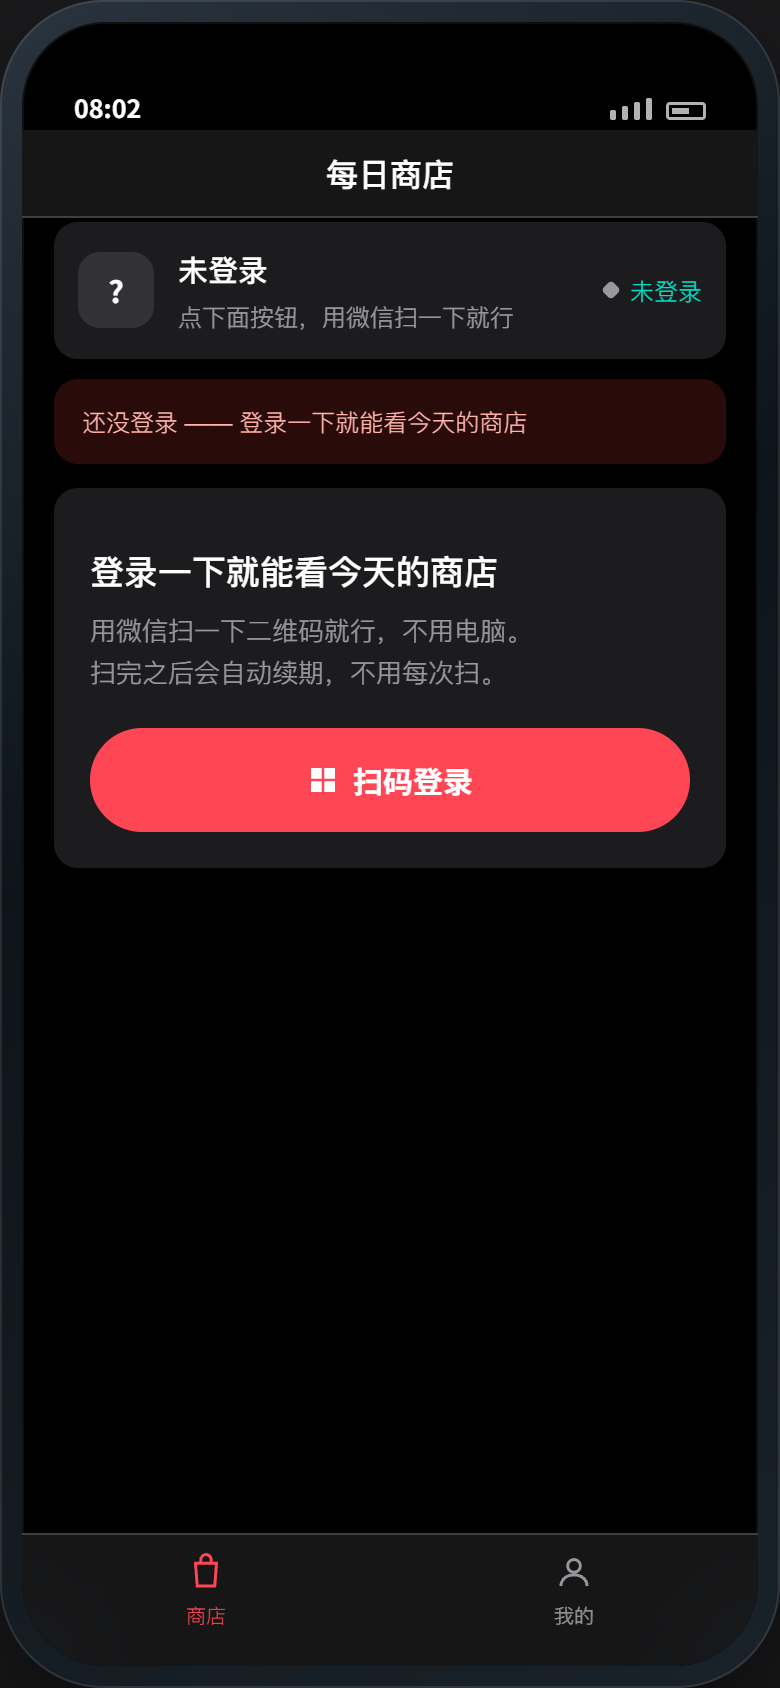
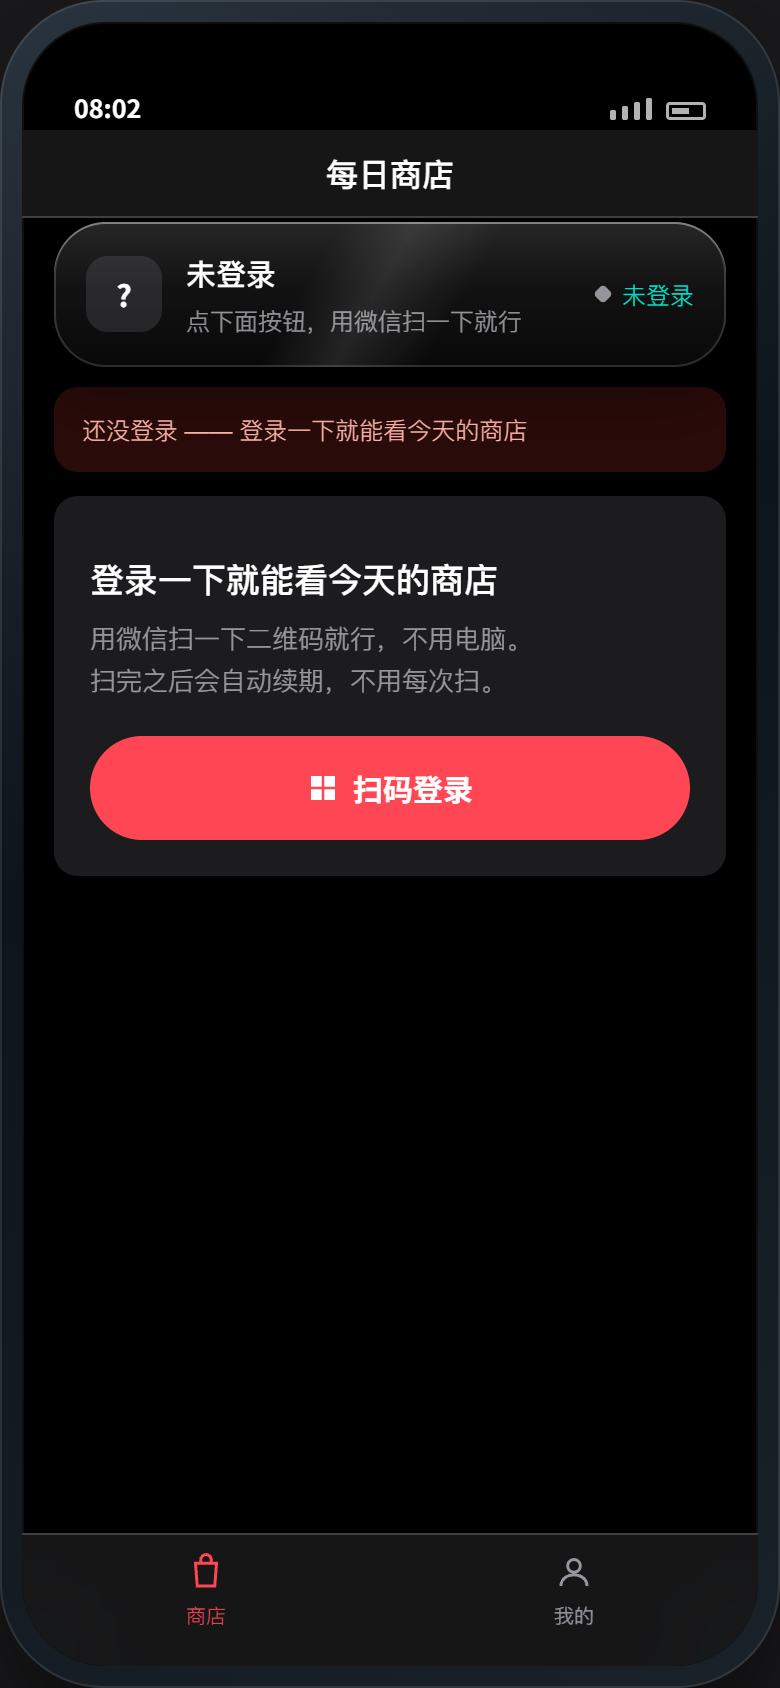
商店页排版：标题行改成「下次刷新时间 · 短引信条 · 倒计时」，身份条换液态玻璃
- 标题行：`Daily Store` → `下次刷新时间`（中文不再走压缩字腔）；原来整行一条的引信条
  缩短成 `ZW.fuseWidth = 72pt`，塞进这一行的标签和倒计时中间；
  右边留「翻开全部」。
- 卡阵下移：原来引信条那一行占的高度，改成标题行的下边距（30pt），四张卡整体往下。
- 身份条：改用系统原生液态玻璃 —— `zwGlassCard()` = `glassEffect(.regular.interactive())`，
  圆角 `ZW.radiusGlass = 26pt`（比内容卡大）。这是内容层唯一的玻璃例外：
  它长得像控件、也确实可点（多角色时切换）。`glassEffect` 全项目仍然只有这一处。
- 预览台同步：标题行三段式、时间条 72px、卡阵下移 30px；身份条用半透明材质 +
  backdrop-filter + 内高光 + 镜面渐变近似玻璃（真机走系统 API）。
- 文档：README 两处「玻璃只作控件层」补上身份条这个例外；引信条的无障碍标签跟着改。
- design/shots 重出。

diff --git a/val-shop-ios/design/preview.html b/val-shop-ios/design/preview.html
@@ -51,6 +51,7 @@
   --r-group:12px;
   --r-card:20px;
   --r-control:11px;
+  --r-glass:26px;
   --pad:16px;
   /* 卡阵间距：翻牌时光会从卡边往外渗 10pt 左右（见 .card .aura），
      间距得留够，不然光会糊到隔壁卡上。App 侧同值：ZW.cardGap */
@@ -148,7 +149,23 @@ body{
    ① 身份条（内容卡）
    ========================================================================== */
 .idbar{
-  display:flex;align-items:center;gap:12px;padding:12px;margin-top:2px;
+  display:flex;align-items:center;gap:12px;padding:14px 16px;margin-top:2px;
+  /* 液态玻璃（App 侧是系统原生 glassEffect；这里手写一个近似）：
+     半透明材质 + 背景模糊/加饱和 + 内高光 + 顶部镜面渐变 */
+  position:relative;
+  border-radius:var(--r-glass);
+  background:linear-gradient(180deg,
+      rgba(255,255,255,.15), rgba(255,255,255,.07) 46%, rgba(255,255,255,.035));
+  backdrop-filter:blur(24px) saturate(1.8);
+  -webkit-backdrop-filter:blur(24px) saturate(1.8);
+  box-shadow:inset 0 0 0 1px rgba(255,255,255,.16),
+             inset 0 1px 0 rgba(255,255,255,.30),
+             inset 0 -1px 0 rgba(0,0,0,.45),
+             0 12px 28px rgba(0,0,0,.42);
+}
+.idbar::after{
+  content:"";position:absolute;inset:0;border-radius:inherit;pointer-events:none;
+  background:linear-gradient(120deg,transparent 38%,rgba(255,255,255,.10) 48%,transparent 60%);
 }
 .idbar .av{
   width:38px;height:38px;flex:0 0 38px;display:grid;place-items:center;border-radius:var(--r-control);
@@ -170,20 +187,21 @@ body{
    ② 今日四张（分组内容：小标 + 引信条 + 卡阵 + 统计）
    ========================================================================== */
 .board{margin-top:8px}
-.board .head{display:flex;align-items:center;gap:10px;padding:0 2px 6px}
-.board .head .t{font-size:11px;color:var(--label-2)}
+.board .head{display:flex;align-items:center;gap:8px;padding:0 2px 30px}
+.board .head .t{font-size:12px;color:var(--label-2);white-space:nowrap}
 .board .head .c{font-size:12px;color:var(--label-2)}
 .board .head .row{display:flex;align-items:center;gap:10px;margin-left:auto}
 
 /* 控件层的次级按钮：系统 .glass 样式 */
 .board .head .act{
+  margin-left:auto;
   font-size:12px;color:var(--label);cursor:pointer;padding:6px 12px;border-radius:999px;
   background:rgba(120,120,128,.28);border:1px solid rgba(255,255,255,.10);
 }
 .board .head .act:disabled{opacity:.45}
 
 /* 引信条 */
-.fuse{position:relative;height:2px;margin:0 2px 8px;border-radius:2px;background:var(--fill)}
+.fuse{position:relative;flex:0 0 72px;height:2px;border-radius:2px;background:var(--fill)}
 .fuse .fill{position:absolute;inset:0 auto 0 0;border-radius:2px;background:var(--rouge);transition:width .6s linear}
 
 .slots{display:grid;grid-template-columns:1fr 1fr;gap:var(--gap);perspective:1100px}
@@ -543,7 +561,7 @@ footer.pagefoot{margin-top:56px;color:var(--label-3);font-size:11.5px;border-top
           <div class="navbar"><div class="ntitle">每日商店</div></div>
           <div class="scroll">
 
-            <div class="idbar g-lg g-fill">
+            <div class="idbar">
               <div class="av g-sm">天</div>
               <div class="who">
                 <div class="gid">天天开心#26170<span class="swap">⇅</span></div>
@@ -554,15 +572,13 @@ footer.pagefoot{margin-top:56px;color:var(--label-3);font-size:11.5px;border-top
 
             <div class="board">
               <div class="head">
-                <div class="t machine">Daily Store</div>
-                <div class="row">
-                  <div class="c mono live" id="clk">16:47:13</div>
-                  <button class="act machine g-sm" id="flipall">翻开全部</button>
+                <div class="t">下次刷新时间</div>
+                <div class="fuse">
+                  <div class="fill" id="fuse" style="width:30%"></div>
+                  <div class="head-mark" id="fusehead" style="left:30%"></div>
                 </div>
-              </div>
-              <div class="fuse">
-                <div class="fill" id="fuse" style="width:30%"></div>
-                <div class="head-mark" id="fusehead" style="left:30%"></div>
+                <div class="c mono live" id="clk">16:47:13</div>
+                <button class="act machine g-sm" id="flipall">翻开全部</button>
               </div>
               <div class="slots" id="slots">
                 <!-- 四个卡背（JS 生成） -->
@@ -589,7 +605,7 @@ footer.pagefoot{margin-top:56px;color:var(--label-3);font-size:11.5px;border-top
           <div class="navbar"><div class="ntitle">每日商店</div></div>
           <div class="scroll">
 
-            <div class="idbar g-lg g-fill">
+            <div class="idbar">
               <div class="av g-sm">天</div>
               <div class="who">
                 <div class="gid">天天开心#26170<span class="swap">⇅</span></div>
@@ -600,13 +616,11 @@ footer.pagefoot{margin-top:56px;color:var(--label-3);font-size:11.5px;border-top
 
             <div class="board">
               <div class="head">
-                <div class="t machine">Daily Store</div>
-                <div class="row">
-                  <div class="c mono live">15:41:22</div>
-                  <button class="act machine g-sm">翻开全部</button>
-                </div>
+                <div class="t">下次刷新时间</div>
+                <div class="fuse"><div class="fill" style="width:35%"></div><div class="head-mark" style="left:35%"></div></div>
+                <div class="c mono live">15:41:22</div>
+                <button class="act machine g-sm">翻开全部</button>
               </div>
-              <div class="fuse"><div class="fill" style="width:35%"></div><div class="head-mark" style="left:35%"></div></div>
               <div class="slots" id="slots2"></div>
             </div>
 
@@ -630,7 +644,7 @@ footer.pagefoot{margin-top:56px;color:var(--label-3);font-size:11.5px;border-top
           <div class="navbar"><div class="ntitle">每日商店</div></div>
           <div class="scroll">
 
-            <div class="idbar g-lg g-fill">
+            <div class="idbar">
               <div class="av g-sm" style="color:var(--dim)">?</div>
               <div class="who">
                 <div class="gid" style="color:var(--dim)">未登录</div>

diff --git a/val-shop-ios/App/ShopView.swift b/val-shop-ios/App/ShopView.swift
@@ -12,8 +12,10 @@ import ZhangwaKit
 ///
 /// 没有「读取」按钮：进来自动读一次（`loadStoreIfNeeded`），要重读就下拉。
 ///
-/// 材质：**玻璃留给控件层**（导航栏、页签栏、翻开全部 —— 系统自己就是玻璃），
+/// 材质：玻璃留给控件层（导航栏、页签栏、翻开全部 —— 系统自己就是玻璃），
 /// 内容层一律用系统分组背景色，不透明。
+/// **唯一例外是身份条**：它长得像控件、也确实可点（多角色时点开切换），
+/// 所以走 `zwGlassCard()`（系统原生 `glassEffect`），圆角 `ZW.radiusGlass` 比内容卡更大。
 struct ShopView: View {
 
     @Environment(AppModel.self) private var model
@@ -90,10 +92,11 @@ struct ShopView: View {
 
             statusChip
         }
-        .padding(14)
-        .zwContentBackground(ZW.radiusGroup)
+        .padding(16)
+        // 液态玻璃（系统原生 `glassEffect`，见 LiquidGlass.swift）；圆角比内容卡更大
+        .zwGlassCard()
         // 多角色时才可点 —— 一个人一个号的时候不该有入口
-        .contentShape(Rectangle())
+        .contentShape(RoundedRectangle(cornerRadius: ZW.radiusGlass, style: .continuous))
         .onTapGesture {
             if model.canSwitchRole { showRolePicker = true }
         }
@@ -170,8 +173,6 @@ struct ShopView: View {
     private var lineUp: some View {
         VStack(spacing: 0) {
             lineUpHeader
-            fuse
-                .padding(.bottom, 12)
 
             // 卡阵间距用 cardGap（比常规块间距大）：翻牌的光要留在自己那块地方
             LazyVGrid(columns: columns, spacing: ZW.cardGap) {
@@ -186,11 +187,20 @@ struct ShopView: View {
         }
     }
 
+    /// 一行说明：`下次刷新时间 · 引信条 · 倒计时` —— 引信条缩短后夹在中间，
+    /// 右边留给「翻开全部」。
     private var lineUpHeader: some View {
-        HStack(spacing: 10) {
-            Text("Daily Store".uppercased())
-                .zwMachine(.caption)
+        HStack(spacing: 8) {
+            Text("下次刷新时间")
+                .font(.caption)
                 .foregroundStyle(.secondary)
+                .fixedSize()
+
+            // 缩短的时间条（原来整行一条，现在只占 ZW.fuseWidth）
+            fuse
+                .frame(width: ZW.fuseWidth)
+
+            countdown
 
             // 冷启动时可能先在显示上一期的缓存，正在拉新的 —— 给个不打扰的提示
             if model.state.isLoading {
@@ -198,9 +208,7 @@ struct ShopView: View {
                     .controlSize(.mini)
             }
 
-            Spacer(minLength: 0)
-
-            countdown
+            Spacer(minLength: 6)
 
             Button {
                 flipAll()
@@ -213,7 +221,9 @@ struct ShopView: View {
             .disabled(model.flipped.allSatisfy { $0 })
         }
         .padding(.horizontal, 2)
-        .padding(.bottom, 8)
+        // 卡阵整体往下挪一点：原来这里下面还有一整条引信，现在引信挪进这一行了，
+        // 下边距补回那条的高度再多给一点
+        .padding(.bottom, 30)
     }
 
     /// 倒计时走自己的一秒一拍 —— 只重绘这一小块
@@ -249,7 +259,7 @@ struct ShopView: View {
             }
             .frame(height: 4)
             .accessibilityElement()
-            .accessibilityLabel("今天的进度")
+            .accessibilityLabel("距离下次刷新的进度")
             .accessibilityValue("\(Int(ratio * 100))%")
         }
     }

diff --git a/val-shop-ios/App/LiquidGlass.swift b/val-shop-ios/App/LiquidGlass.swift
@@ -31,4 +31,18 @@ extension View {
     func zwScrollEdge(_ edges: Edge.Set = .all) -> some View {
         scrollEdgeEffectStyle(.soft, for: edges)
     }
+
+    /// 内容层里**那一块**玻璃：身份条（账号信息）。
+    ///
+    /// 这是有意的例外 —— 它长得像控件、也确实可点（多角色时点开切换），
+    /// 所以用系统原生的 `glassEffect`，而不是 `.zwContentBackground`：
+    ///   · `.regular` 是 Apple 给"浮在内容之上的界面元素"的默认厚度
+    ///   · `.interactive()` 让它在被按住时有系统的形变/高光反馈
+    ///   · 圆角走 `ZW.radiusGlass`（比内容卡更大，玻璃块要更圆）
+    ///
+    /// 别的卡片、分组、列表行仍然保持不透明内容底 —— 见本文件开头那条线。
+    func zwGlassCard(_ radius: CGFloat = ZW.radiusGlass) -> some View {
+        glassEffect(.regular.interactive(),
+                    in: RoundedRectangle(cornerRadius: radius, style: .continuous))
+    }
 }

diff --git a/val-shop-ios/App/DesignSystem.swift b/val-shop-ios/App/DesignSystem.swift
@@ -44,6 +44,11 @@ enum ZW {
     static let radiusCard: CGFloat = 20
     /// 小控件（头像 / 图标）
     static let radiusControl: CGFloat = 11
+    /// 玻璃信息条（身份条）—— 玻璃块要更"圆"一点，这是 Liquid Glass 的观感
+    static let radiusGlass: CGFloat = 26
+
+    /// 引信条（下次刷新进度）：缩短后塞进标题行里，只占这么宽
+    static let fuseWidth: CGFloat = 72
 
     /// 发丝线
     static let hairline: CGFloat = 1

diff --git a/val-shop-ios/README.md b/val-shop-ios/README.md
@@ -224,7 +224,7 @@ Info.plist 里开了 `UIFileSharingEnabled` + `LSSupportsOpeningDocumentsInPlace
 |---|---|---|
 | 字号走 Dynamic Type，不写死点数 | HIG Typography / [Scaling fonts automatically](https://developer.apple.com/documentation/UIKit/scaling-fonts-automatically) | 全项目 **0 处** `.font(.system(size:))`，只有 `.caption2 / .caption / .footnote / .subheadline / .callout / .body / .headline / .title3` |
 | 文字用语义色，颜色定义在资产目录 | [HIG Color](https://developer.apple.com/design/human-interface-guidelines/color) / [Supporting Dark Mode](https://developer.apple.com/documentation/UIKit/supporting-dark-mode-in-your-interface) | 文字只有 `.primary / .secondary / .tertiary`；底色只有 `Color(.systemBackground)` / `.secondarySystemGroupedBackground` / `.tertiarySystemFill`；品牌红、青绿进 `Assets.xcassets`（`zwRouge` / `zwSignal`）；`Info.plist` 声明 `UIUserInterfaceStyle = Dark` |
-| 玻璃是**控件层**的材质 | [HIG Materials](https://developer.apple.com/design/human-interface-guidelines/materials) | TabBar / NavigationBar / sheet / `.glassProminent` 按钮 —— 全部由系统提供。内容层（卡片、分组、身份卡）不透明。项目里**不再自己调 `glassEffect`** |
+| 玻璃是**控件层**的材质 | [HIG Materials](https://developer.apple.com/design/human-interface-guidelines/materials) | TabBar / NavigationBar / sheet / `.glassProminent` 按钮 —— 全部由系统提供。内容层（卡片、分组）不透明；**唯一例外是身份条**（长得像控件、也确实可点），走 `zwGlassCard()` = 原生 `glassEffect(.regular.interactive())`，全项目只在 `LiquidGlass.swift` 里调一次 |
 | 设置类内容用 List / Form | [HIG Lists and tables](https://developer.apple.com/design/human-interface-guidelines/lists-and-tables) | 「我的」「诊断台」「抓到的接口」「切换角色」都是 `List` + `LabeledContent`，分隔线 / VoiceOver / 键盘导航全是白拿的 |
 | 自定义手势不能是唯一入口 | [HIG Gestures](https://developer.apple.com/design/human-interface-guidelines/gestures) | 诊断台改成「我的 → 关于 → 诊断」一行明码，不再靠长按版本号 |
 | 自定义控件要报值 | [HIG Accessibility](https://developer.apple.com/design/human-interface-guidelines/accessibility) | 引信条报 `accessibilityValue("NN%")`；卡片报「第 N 张 / 名称 / 价格 / 已拥有」 |
@@ -386,8 +386,8 @@ swiftc -O flow_probe.swift -o flow.exe; .\flow.exe
 
 | 要求 | 实现 |
 |---|---|
-| Liquid Glass | 玻璃**只作控件层材质**（HIG Materials）：`TabView` / `NavigationStack` / `.sheet` 全由系统出玻璃；按钮用 `ButtonStyle.glass` ⇄ `glassProminent`；`.tabBarMinimizeBehavior(.onScrollDown)`；`.scrollEdgeEffectStyle(.soft, for:)` 走 `zwScrollEdge()`。项目内**已无一处**直接调 `glassEffect` |
-| 内容层材质 | 不透明：`Color(.systemBackground)` / `.secondarySystemGroupedBackground` / `.tertiarySystemFill`，全部系统语义色 |
+| Liquid Glass | 玻璃**只作控件层材质**（HIG Materials）：`TabView` / `NavigationStack` / `.sheet` 全由系统出玻璃；按钮用 `ButtonStyle.glass` ⇄ `glassProminent`；`.tabBarMinimizeBehavior(.onScrollDown)`；`.scrollEdgeEffectStyle(.soft, for:)` 走 `zwScrollEdge()`。`glassEffect` 只在 `zwGlassCard()` 里出现一次（身份条），圆角走 `ZW.radiusGlass = 26` |
+| 内容层材质 | 不透明：`Color(.systemBackground)` / `.secondarySystemGroupedBackground` / `.tertiarySystemFill`，全部系统语义色。身份条例外：液态玻璃（`zwGlassCard()`） |
 | 颜色来源 | 品牌红青绿在 `Assets.xcassets` 的 colorset；文字只用 `.primary/.secondary/.tertiary`（HIG Color） |
 | 外观 | `Info.plist` 声明 `UIUserInterfaceStyle = Dark`，纯深色 App（HIG Supporting Dark Mode） |
 | 字体 | 全部 Dynamic Type 文本样式；两处腔调 = 系统字体 + `weight`/`width`/`design`，无第三方字体（HIG Typography） |
